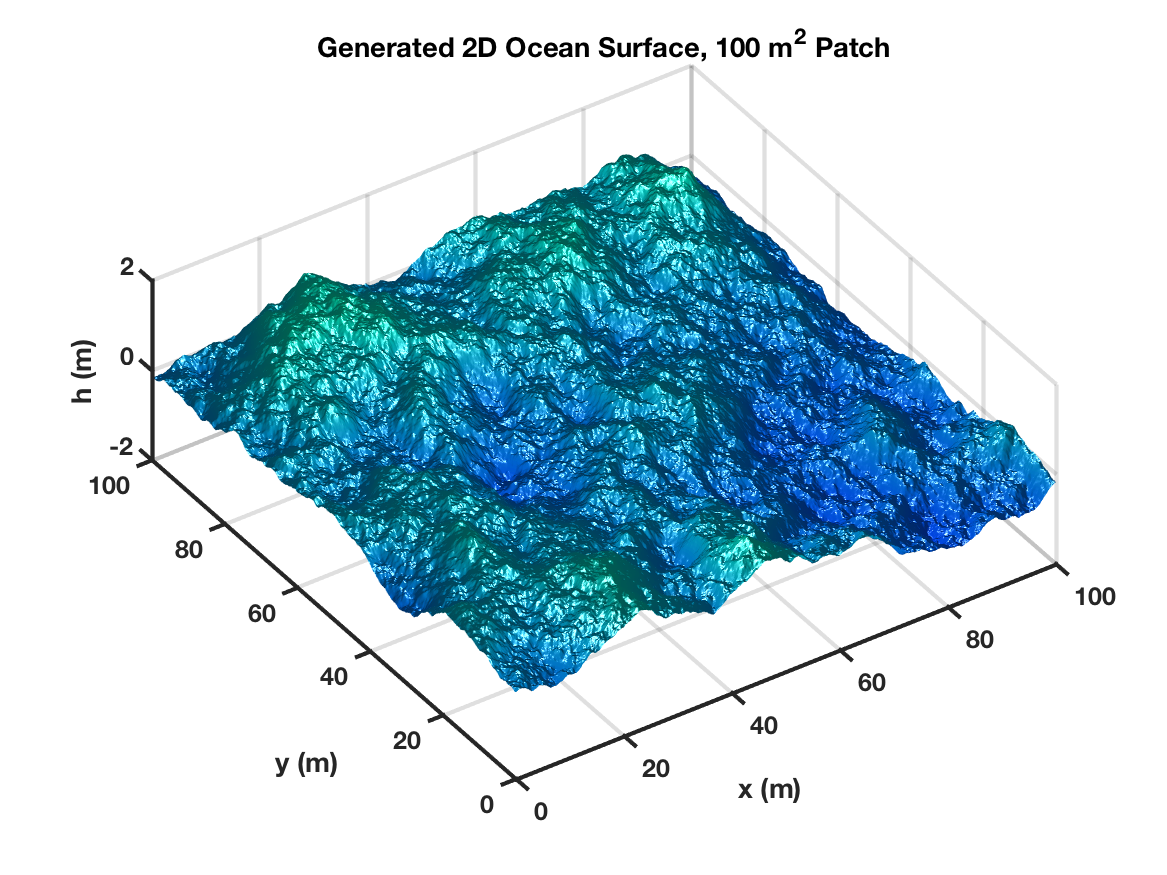
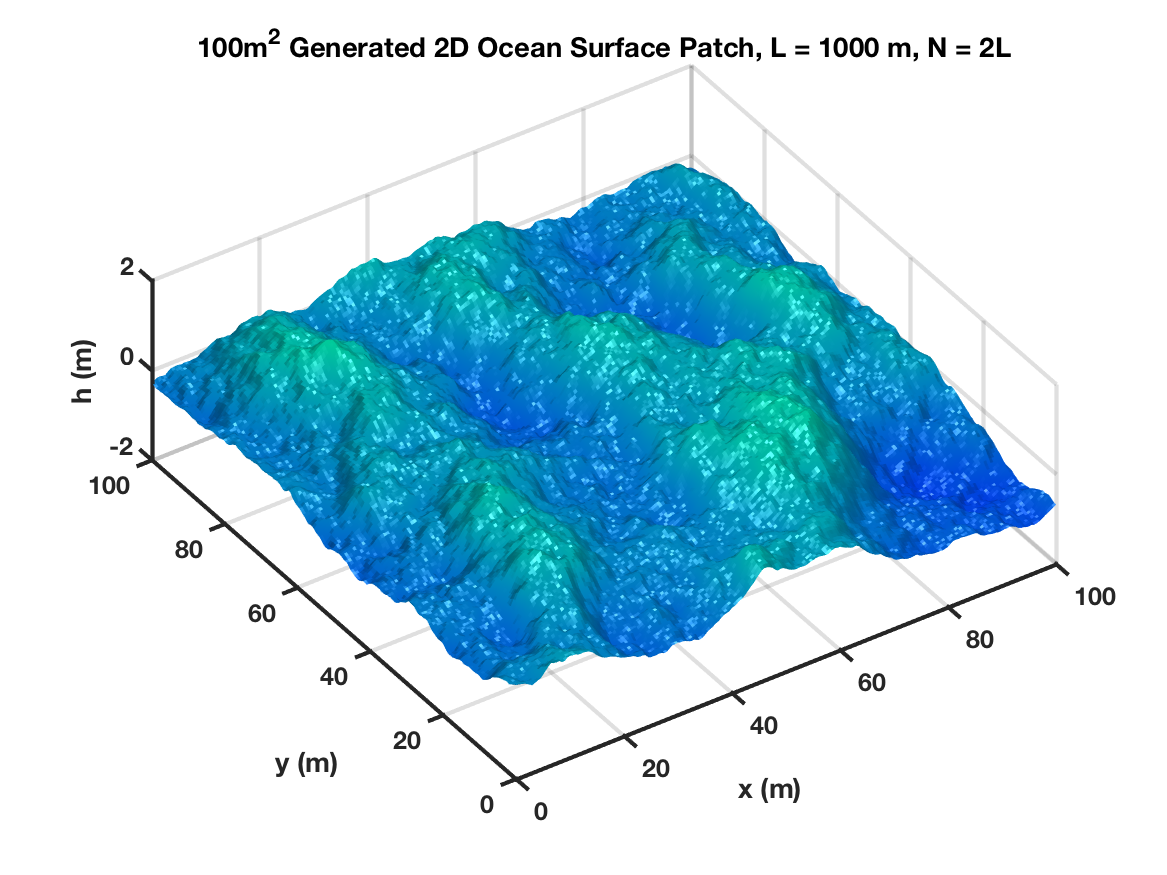
Clean up for handling k-space

Changed region(s): [[0.1234, 0.1543, 0.9254, 0.8023], [0.1542, 0.0309, 0.8638, 0.0926]]

diff --git a/mfiles/generateOceanSurface2DTestPlots.m b/mfiles/generateOceanSurface2DTestPlots.m
@@ -8,8 +8,7 @@ if(nargin == 1)
 end
 
 L = 1000;
-M = 11;
-N = 2^M;
+N = 2*L;
 dx = L/N;
 U10 = 10;
 age = 0.84;
@@ -21,12 +20,30 @@ x = (0:N-1)*dx;
 y = (0:N-1)*dx;
 
 %% Plot the surface
+% hh(1) = figure;
+% ha = surf(x,y,h,'FaceLighting','gouraud','FaceColor','interp',...
+%       'AmbientStrength',0.5);
+% shading interp
+% light('Position',[0 0 5],'Style','local')
+% colormap(winter(256))
+% xlim([0 100]);
+% ylim([0 100])
+% xlabel('x (m)')
+% ylabel('y (m)')
+% zlabel('h (m)')
+% set(gca,'LineWidth',2)
+% set(gca,'FontSize',12)
+% set(gca,'FontWeight','bold')
+% set(gca,'View',[-34, 65]);
+% tstring = sprintf('100m^2 Generated 2D Ocean Surface Patch, L = %d m, N = %dL', L, N/L);
+% title(tstring);
+
+%% Plot the surface
 hh(1) = figure;
-surf(x,y,h,'FaceLighting','gouraud','FaceColor','interp',...
-      'AmbientStrength',0.5);
+surfl(x,y,h,'light');
 shading interp
-light('Position',[-1 0 0],'Style','local')
-colormap winter
+light('Position',[-1 -1 0],'Style','local')
+colormap(winter(256))
 xlim([0 100]);
 ylim([0 100])
 xlabel('x (m)')
@@ -36,7 +53,8 @@ set(gca,'LineWidth',2)
 set(gca,'FontSize',12)
 set(gca,'FontWeight','bold')
 set(gca,'View',[-34, 65]);
-title('Generated 2D Ocean Surface, 100 m^2 Patch')
+tstring = sprintf('100m^2 Generated 2D Ocean Surface Patch, L = %d m, N = %dL', L, N/L);
+title(tstring);
 
 %% Plot the surface image
 hh(2) = figure;
@@ -65,7 +83,7 @@ set(gca,'LineWidth',2)
 set(gca,'FontSize',12)
 set(gca,'FontWeight','bold')
 grid on
-tstring = sprintf('Sea Surface Y Slice, L = %d km, N = 2^{%d}',L/1000,M);
+tstring = sprintf('Sea Surface Y Slice, L = %d m, N = %d',L,N/L);
 title(tstring);
 
 subplot(2,2,2)
@@ -82,7 +100,7 @@ set(gca,'FontWeight','bold')
 xlabel('k (rad/m)')
 ylabel('S(k) (m^3/rad)')
 title('X Slice')
-tstring = sprintf('Spectrum Comparison, L = %d km, N = 2^{%d}',L/1000,M);
+tstring = sprintf('Spectrum Comparison, L = %d m, N = %dL',L,N/L);
 title(tstring);
 
 subplot(2,2,3)
@@ -93,7 +111,7 @@ set(gca,'LineWidth',2)
 set(gca,'FontSize',12)
 set(gca,'FontWeight','bold')
 grid on
-tstring = sprintf('Sea Surface Y Slice, L = %d km, N = 2^{%d}',L/1000,M);
+tstring = sprintf('Sea Surface Y Slice, L = %d m, N = %d',L,N/L);
 title(tstring);
 
 subplot(2,2,4)
@@ -110,7 +128,7 @@ set(gca,'FontWeight','bold')
 xlabel('k (rad/m)')
 ylabel('S(k) (m^3/rad)')
 title('Y Slice')
-tstring = sprintf('Spectrum Comparison, L = %d km, N = 2^{%d}',L/1000,M);
+tstring = sprintf('Spectrum Comparison, L = %d m, N = %d',L,N/L);
 title(tstring);
 
 %% plot the sampling coverage

diff --git a/mfiles/generate2DElfouhailySpectra.m b/mfiles/generate2DElfouhailySpectra.m
@@ -1,0 +1,61 @@
+function generate2DElfouhailySpectra(varargin)
+
+saveFigs = 0;
+
+if nargin == 1
+    saveFigs = varargin{1};
+end
+
+kx = linspace(-370,370,1000);
+ky = kx';
+
+[kxx,kyy] = meshgrid(kx,ky);
+
+%convert to polar coordinates
+[phi,k] = cart2pol(kxx,kyy);
+
+h(1) = figure('pos',[50 50 1000 400]);
+subplot(1,2,1)
+% for (u = 3:2:21) 
+   S = Elfouhaily2D(k,phi,20,0.84);
+   imagesc(kx,ky,10*log10(S),[-150 30]);
+   hold on
+% end
+
+grid on
+% xlim([10^-3 10^5]);
+% ylim([10^-3 10^5]);
+% ylim([10^-15 10^3])
+xlabel('k_x (rad/m)');
+ylabel('k_y (rad/m)')
+title('Elfouhaily 2-D Variance Spectrum')
+set(gca,'LineWidth',2)
+set(gca,'FontSize',12)
+set(gca,'FontWeight','bold')
+colormap(jet(256))
+colorbar
+
+subplot(1,2,2)
+% for (u = 3:2:21) 
+   S = Elfouhaily(k,10,0.84);
+   imagesc(kx,ky,k.^4.*S);
+%    hold on
+% end
+
+grid on
+% xlim([10^-3 10^5]);
+% ylim([10^-4 10^0])
+xlabel('k_x (rad/m)');
+ylabel('k_y (rad/m)')
+title('Elfouhaily 2-D Curvature Spectrum')
+set(gca,'LineWidth',2)
+set(gca,'FontSize',12)
+set(gca,'FontWeight','bold')
+colormap(jet)
+colorbar
+
+if(saveFigs)
+ saveas(h(1),'elf_variance_curvature_spectrum.png','png')
+end
+
+

diff --git a/mfiles/generateElfouhailySpectra.m b/mfiles/generateElfouhailySpectra.m
@@ -9,12 +9,10 @@ end
 p = linspace(-4,4,10000);
 k = 10.^p;
 
-angle = pi/2;
-
 h(1) = figure('pos',[50 50 1000 400]);
 subplot(1,2,1)
 for (u = 3:2:21) 
-   S = Elfouhaily(k,u,0.84,angle);
+   S = Elfouhaily(k,u,0.84);
    loglog(k,S, 'LineWidth',2);
    hold on
 end
@@ -36,7 +34,7 @@ set(gca,'FontWeight','bold')
 
 subplot(1,2,2)
 for (u = 3:2:21) 
-   S = Elfouhaily(k,u,0.84,angle);
+   S = Elfouhaily(k,u,0.84);
    loglog(k,k.^3.*S, 'LineWidth',2);
    hold on
 end

diff --git a/src/test_ocean_surface_generation.tex b/src/test_ocean_surface_generation.tex
@@ -41,7 +41,8 @@
 \titlepage
 \begin{center}
 \vspace*{25pt}
-\includegraphics[width=0.75\textwidth]{../media/apl_small_horizontal_blue}~\\[1cm]
+\includegraphics[width=0.5\textwidth]{../media/apl_small_horizontal_blue}~\\[1cm]
+\includegraphics[width=0.5\textwidth]{../media/clark}~\\[1cm]
 
 \vspace{50pt}
 
@@ -50,9 +51,8 @@
 
 \vspace{25pt}
 \large Ben Frazier \\
-\large FPS/KVU
-
-\vspace{175pt}
+\large FPS/KVU \\
+\vspace{100pt}
 \large \today
 \end{center}
 

diff --git a/mfiles/Elfouhaily2D.m b/mfiles/Elfouhaily2D.m
@@ -22,4 +22,3 @@ am = 0.13*ustar/cm;
 
 Delk = tanh(a0 + ap*(c/cp).^(2.5) + am*(cm./c).^(2.5));
 PSI = S.*1./k.*(1 + Delk.*cos(2*phi));
-PSI(N/2+1,N/2+1) = 0.0;
